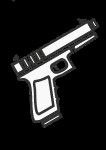
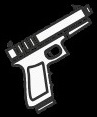
完成人物基本設定

Changed region(s): [[0.0309, 0.0256, 0.9588, 0.9744], [0.0928, 0.0, 0.1546, 0.0256]]

diff --git a/game4.10/Source/resource.h b/game4.10/Source/resource.h
@@ -45,6 +45,9 @@
 #define IDB_MAP9                        165
 #define IDB_LAWN                        166
 #define IDB_BOX                         167
+#define IDB_PLAYER                      169
+#define IDB_PITOL1                      170
+#define IDB_PISTOL1                     170
 #define IDC_README                      1001
 #define ID_FILE_PAUSE                   32771
 #define ID_TOGGLE_FULLSCREEN            32772
@@ -57,7 +60,7 @@
 #ifdef APSTUDIO_INVOKED
 #ifndef APSTUDIO_READONLY_SYMBOLS
 #define _APS_3D_CONTROLS                     1
-#define _APS_NEXT_RESOURCE_VALUE        168
+#define _APS_NEXT_RESOURCE_VALUE        171
 #define _APS_NEXT_COMMAND_VALUE         32776
 #define _APS_NEXT_CONTROL_VALUE         1003
 #define _APS_NEXT_SYMED_VALUE           101

diff --git a/game4.10/Source/mygame.h b/game4.10/Source/mygame.h
@@ -43,6 +43,8 @@
 #include "CBouncingBall.h"
 #include "Map.h"
 #include "Box.h"
+#include "persona.h"
+#include "items.h"
 
 namespace game_framework {
 	/////////////////////////////////////////////////////////////////////////////
@@ -128,6 +130,8 @@ namespace game_framework {
 		//CGameMap gamemap;
 		Map map;
 		Box box;
+		persona player1;
+		items its;
 	};
 
 	/////////////////////////////////////////////////////////////////////////////

diff --git a/game4.10/Source/BasicObject.h b/game4.10/Source/BasicObject.h
@@ -5,12 +5,16 @@ namespace game_framework {
 	public:
 		BasicObject();
 		void OnMove();
-		void OnShow();
+		virtual void OnShow();
 		void SetXY(int nx, int ny);
 		void SetMovingUP(bool flag);
 		void SetMovingDown(bool flag);
 		void SetMovingLeft(bool flag);
 		void SetMovingRight(bool flag);
+		void SetAlive(bool flag);
+		int GetX();
+		int GetY();
+
 
 		bool isAlive();
 		bool isThourghable();

diff --git a/game4.10/Source/persona.h b/game4.10/Source/persona.h
@@ -1,13 +1,17 @@
 #pragma once
+#include "BasicObject.h"
+
 namespace game_framework {
 	class persona : public BasicObject
 	{
 	public:
-		virtual void LoadBitmap();
-
-	protected:
-
+		persona();
+		void CatchItem();
+		virtual void LoadBitMap();
+		virtual void OnShow();
+		void SetGetting(bool flag);
+		bool isGetting();
 	private:
-
+		bool is_Gettting = false;
 	};
 }

diff --git a/game4.10/Source/BasicObject.cpp b/game4.10/Source/BasicObject.cpp
@@ -70,6 +70,18 @@ void BasicObject::SetMovingRight(bool flag)
 {
     isMovingRight = flag;
 }
+void BasicObject::SetAlive(bool flag)
+{
+	is_alive = flag;
+}
+int BasicObject::GetX()
+{
+	return x;
+}
+int BasicObject::GetY()
+{
+	return y;
+}
 bool BasicObject::isAlive()
 {
     return is_alive;

diff --git a/game4.10/Source/items.h b/game4.10/Source/items.h
@@ -1,10 +1,11 @@
 #pragma once
+#include "BasicObject.h"
 namespace game_framework {
 class items : public BasicObject
 {
     public:
-
-    private:
-
+		items();
+		void LoadBitMap();
+		void OnShow();
 };
 }
